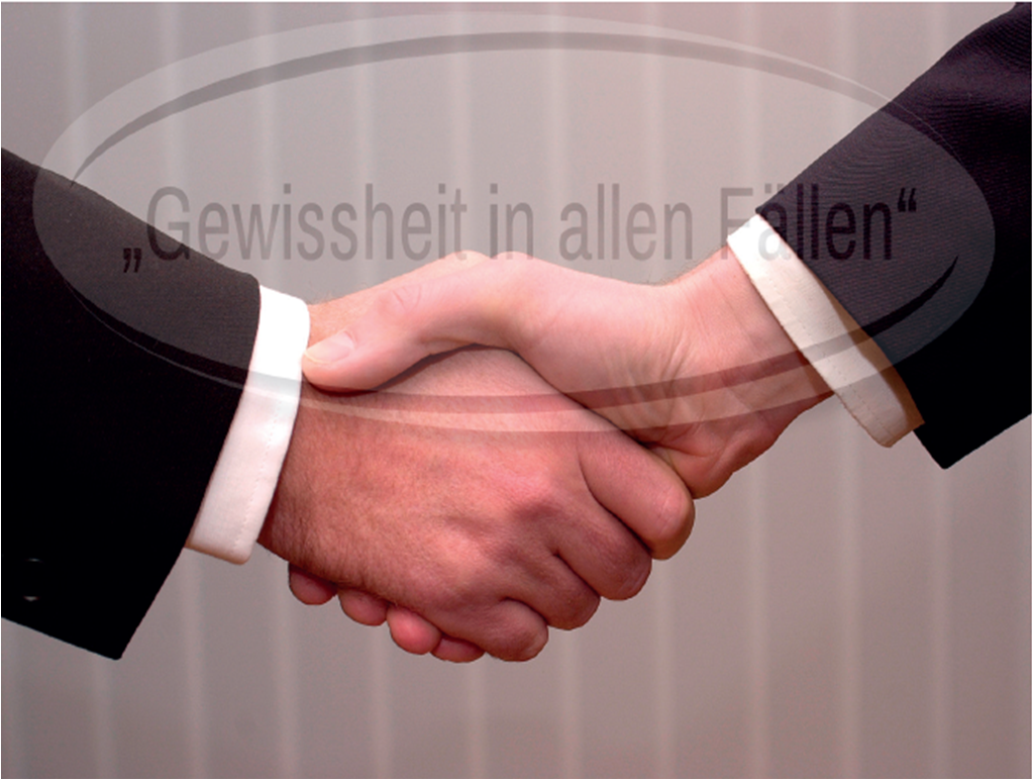
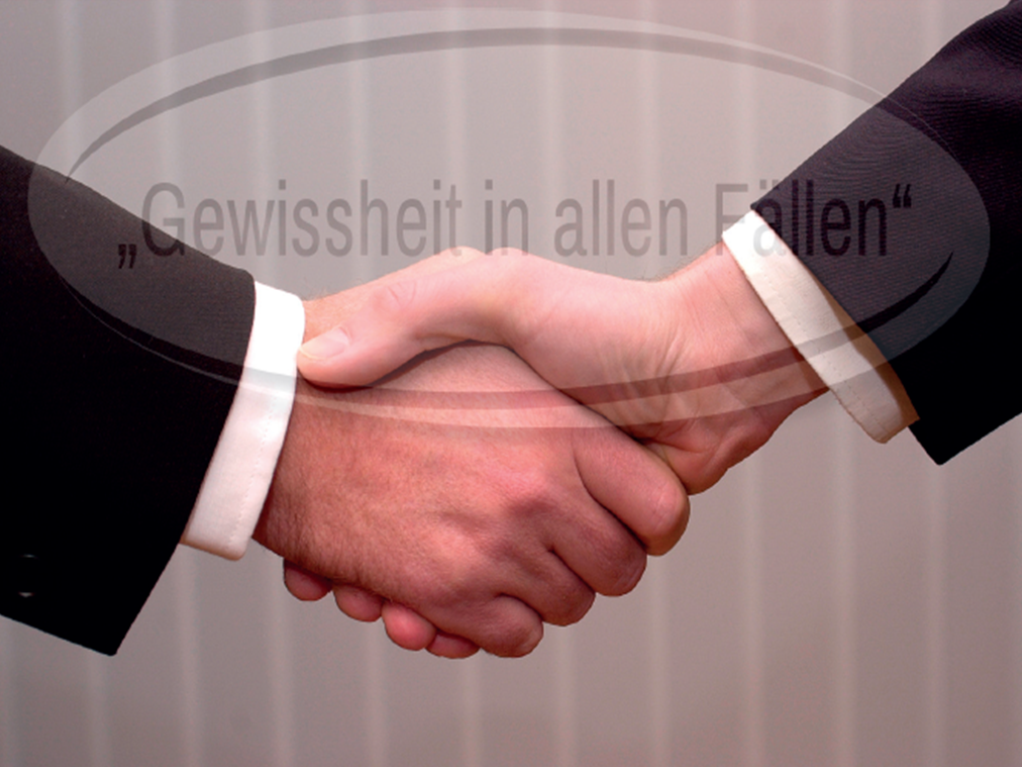
Ajustes index.php

diff --git a/css/generic_detektei.css b/css/generic_detektei.css
@@ -137,8 +137,8 @@
 
       #circulo {
         font-family: 'Arial Narrow';
-        height: 45px;
-        width: 130px;
+        height: 40px;
+        width: 100%;
         text-align: center;
         font-size: 18px;
         vertical-align: middle;
@@ -148,7 +148,8 @@
         border-color: white;
         border-width: medium;
         border-style: solid;
-        line-height: 40px;
+        line-height: 30px;
+        margin-left: -15px;
       }
 
       .puzzle {
@@ -209,8 +210,8 @@
 
       .banner {
         width: 100%;
-        height: 60%;
-        padding: 20px;
+        height: auto;
+        padding: 15px;
       }
 
       .content-slider1 {

diff --git a/index.php b/index.php
@@ -50,45 +50,46 @@
                   <p class="text-sidebar">Name</p>
                   <input class="input-formulario" type="text" />
                   <p class="text-sidebar">E-Mail</p>
-                  <div>
-                    <input class="input-formulario" type="text" />
-                    <p class="text-sidebar">Nachricht</p>
-                    <table>
-                      <tr>
-                        <div class=" col-lg-3 col-md-3 col-sm-12">
-                          <td>
-                            <input class="input-formulario2" type="text" />
-                            <p class="text-sidebar">Zeitfenster für Rückruf</p>
-                          </td>
-                          <td>
-                            <div id="circulo">Senden</div>
-                          </td>
-                        </div>
-                      </tr>
-                    </table>
+                  <input class="input-formulario" type="text" />
+                  <p class="text-sidebar">Nachricht</p>
+                  <div class="row" style="padding-left:7px;">
+                      <div class="col-lg-7 col-md-7 col-sm-12">
+                          <input class="input-formulario2" type="text" />
+                          <p class="text-sidebar">Zeitfenster für Rückruf</p>
+                      </div>
+                      <div class="col-lg-5 col-md-5 col-sm-12">
+                          <div id="circulo">Senden</div>
+                      </div>
                   </div>
                 </form>
               </div>
               <img class="puzzle" src='img/puzzle.jpg' />
               <div class="tablasidebar">
-                <table>
-                  <tr>
-                    <p class="text-sidebar-bottom">Die Detektei Larsen: Verbände / Zertifkate</p>
-                  </tr>
-                  <tr>
-                    <td>
-                      <img class="banner" src='img/bid-Logo Zertifizierung_animiert.png' />
-                    </td>
-                    <td><img class="banner" src='img/IKD_Logo.png' /> </td>
-                  </tr>
-                  <tr>
-                    <td><img class="banner" src='img/WorldAssociationofDetectivesfooter.png' /></td>
-                    <td><img class="banner" src='img/ODV_Logo-rgb.png' /></td>
-                  </tr>
-                </table>
+                <div class="row">
+                  <div class="col-lg-12 col-md-12 col-sm-12">
+                    <div class="row">
+                      <div class="text-sidebar-bottom">Die Detektei Larsen: Verbände / Zertifkate</div>
+                          <div class="col-lg-6 col-md-6 col-sm-12">
+                            <img class="banner" src='img/bid-Logo Zertifizierung_animiert.png' />
+                          </div>
+                          <div class="col-lg-6 col-md-6 col-sm-12">
+                            <img class="banner" src='img/IKD_Logo.png' /> </td>
+                          </div>
+                    </div>
+                  </div>
+                  <div class="col-lg-12 col-md-12 col-sm-12">
+                    <div class="row">
+                      <div class="col-lg-6 col-md-6 col-sm-12">
+                        <img class="banner" src='img/WorldAssociationofDetectivesfooter.png' />
+                      </div>
+                      <div class="col-lg-6 col-md-6 col-sm-12">
+                        <img class="banner" src='img/ODV_Logo-rgb.png' /></td>
+                      </div>
+                    </div>
+                  </div>
+                </div>
               </div>
             </div>
-
           </div>
         </div>
         <div id="web" class="col-lg-9 col-md-9 col-sm-12">
@@ -99,12 +100,12 @@
                 <!-- The slideshow -->
                 <div class="carousel-inner">
                   <div class="carousel-item active">
-                    <img src="img/empre0.png" alt="Detektei" width="100%" height="632">
+                    <img src="img/empre0.png" alt="Detektei" width="100%" height="630">
                   </div>
                   <div class="carousel-item">
-                    <img src="img/empre0.png" alt="Detektei" width="100%" height="632">
+                    <img src="img/empre0.png" alt="Detektei" width="100%" height="630">
                     <div class="carousel-caption">
-                      <div class="row">
+                      <div class="row" style="margin-bottom:-39px;">
                         <div class="col-lg-6 col-md-6 col-sm-6 wine-color-bg">
                           <div class="tittle-slider-caption">Wirtschaft</div>
                           <div class="text-slider-caption">
@@ -135,9 +136,9 @@
                     </div>
                   </div>
                   <div class="carousel-item">
-                    <img src="img/empre0.png" alt="Detektei" width="100%" height="632">
+                    <img src="img/empre0.png" alt="Detektei" width="100%" height="630">
                     <div class="carousel-caption">
-                      <div class="row">
+                      <div class="row" style="margin-bottom:-37px;">
                         <div class="col-lg-6 col-md-6 col-sm-6 wine-color-bg">
                           <div class="tittle-slider-caption">Wirtschaft</div>
                           <div class="text-slider-caption">
